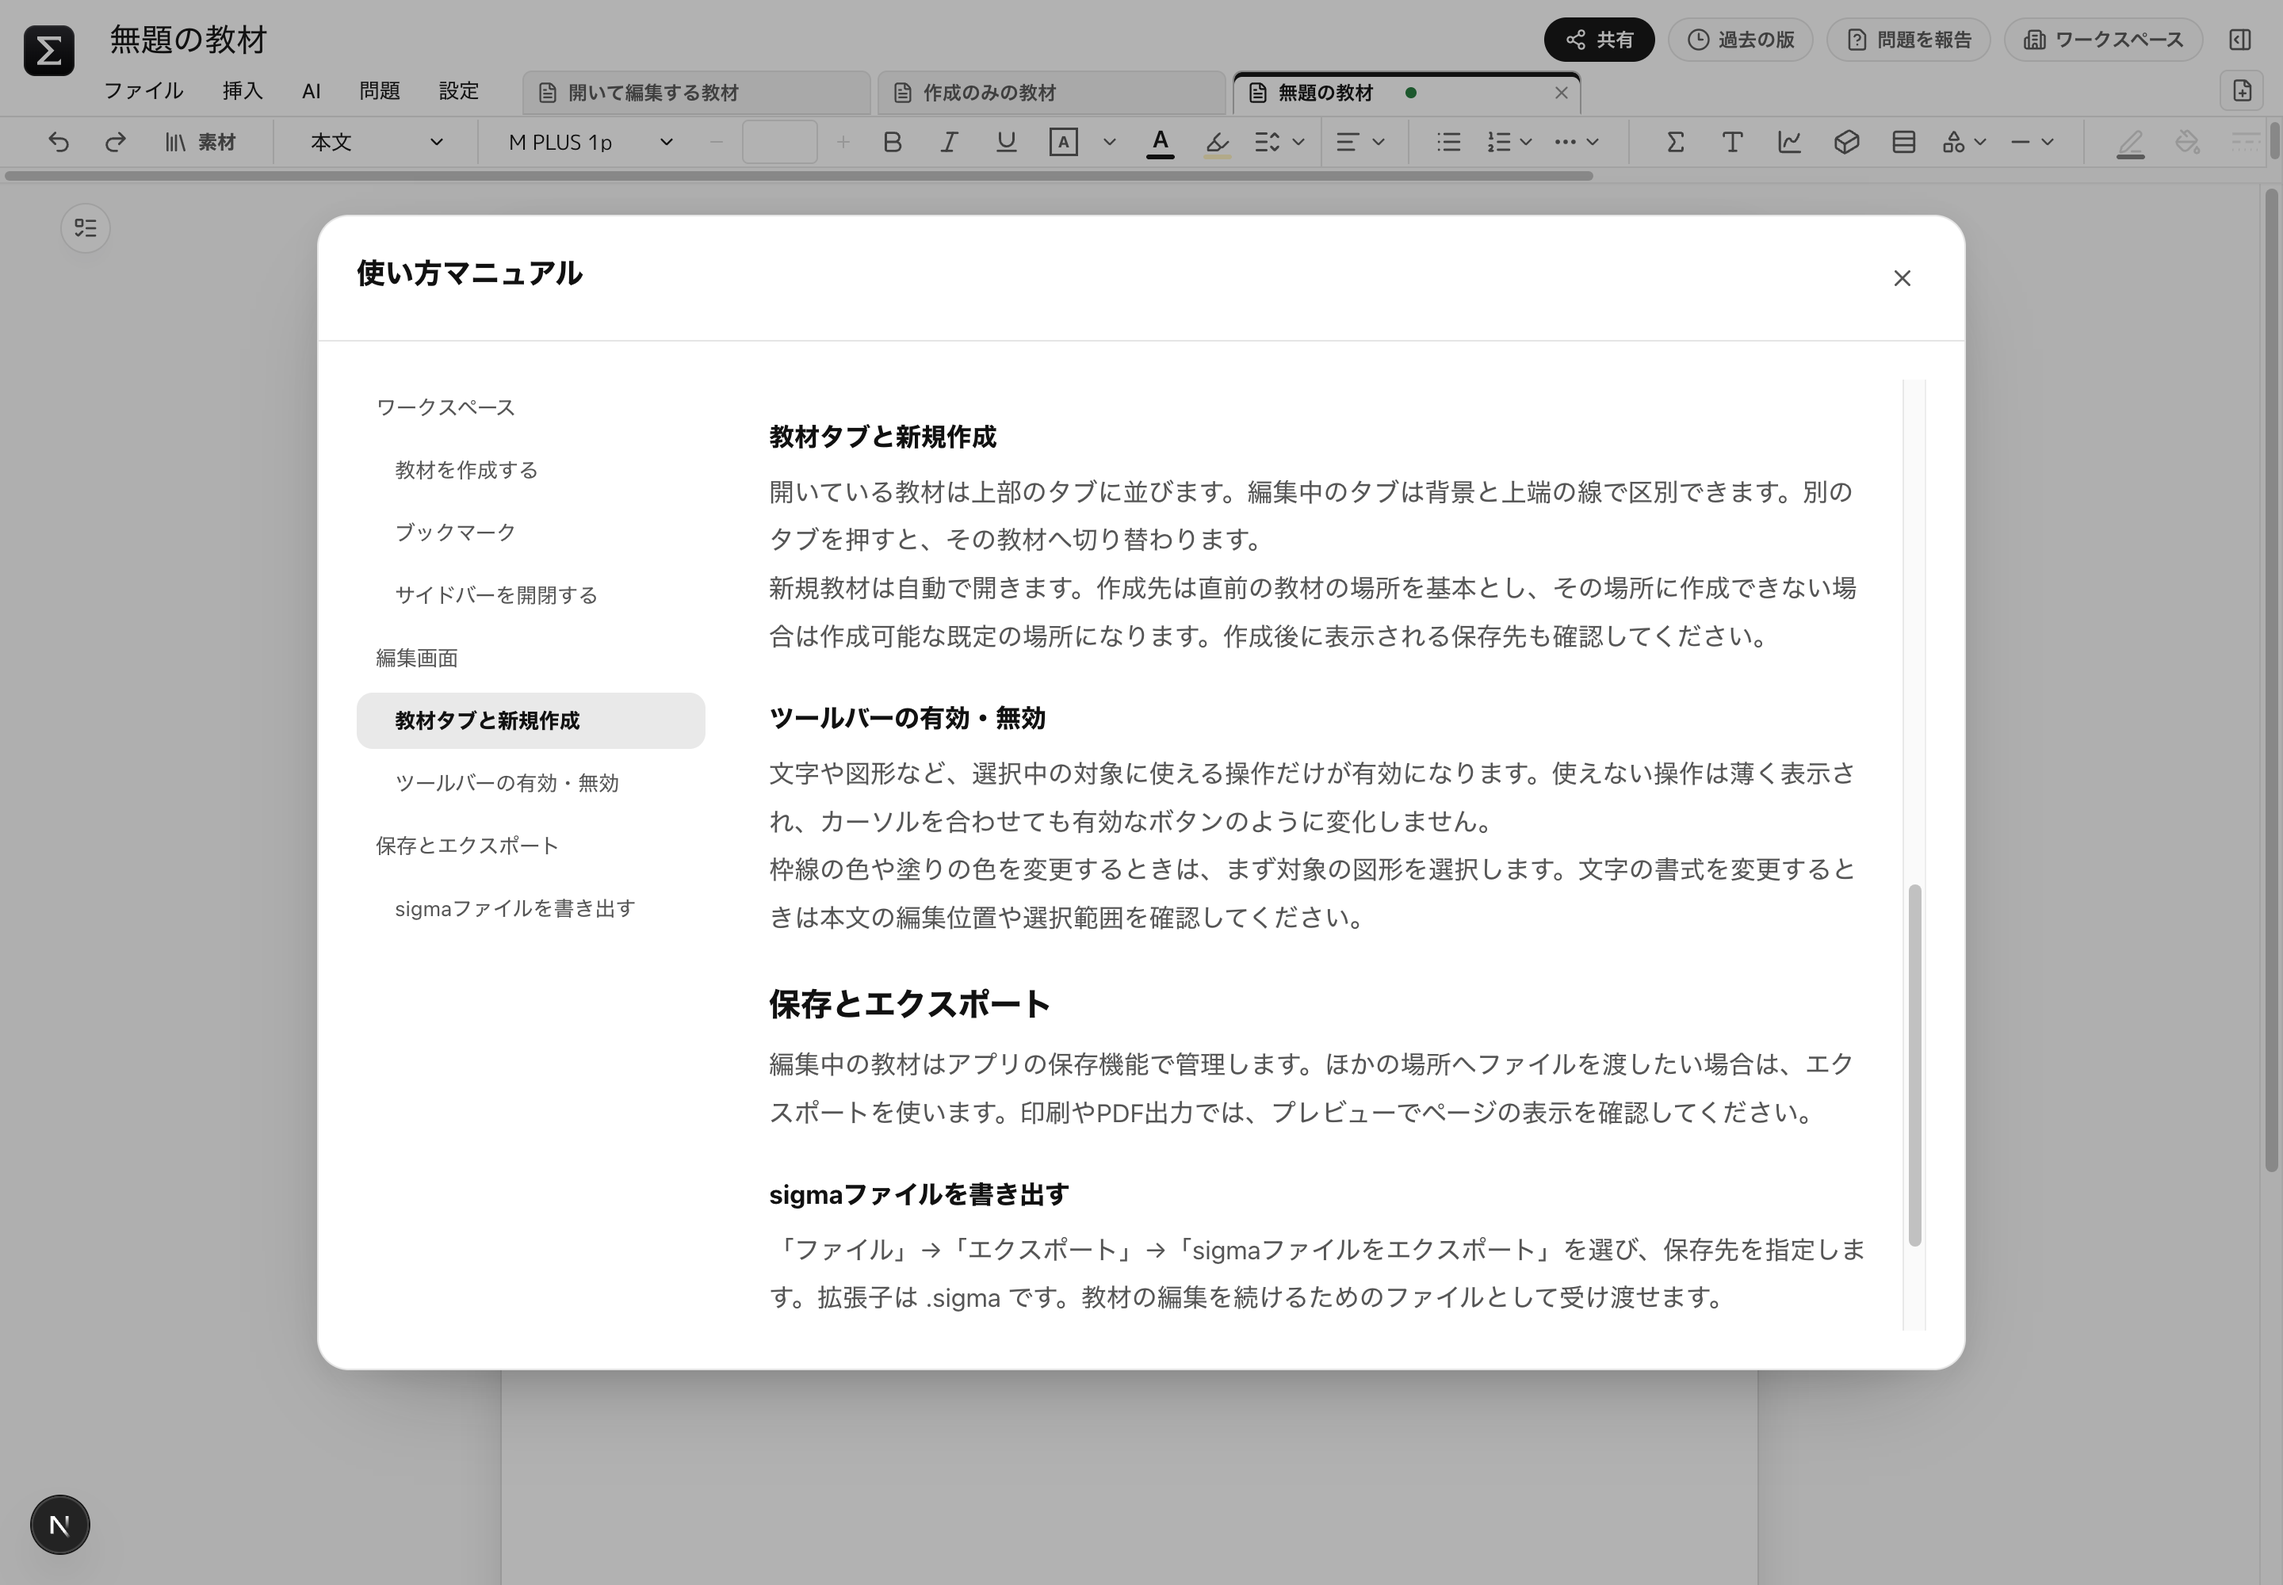
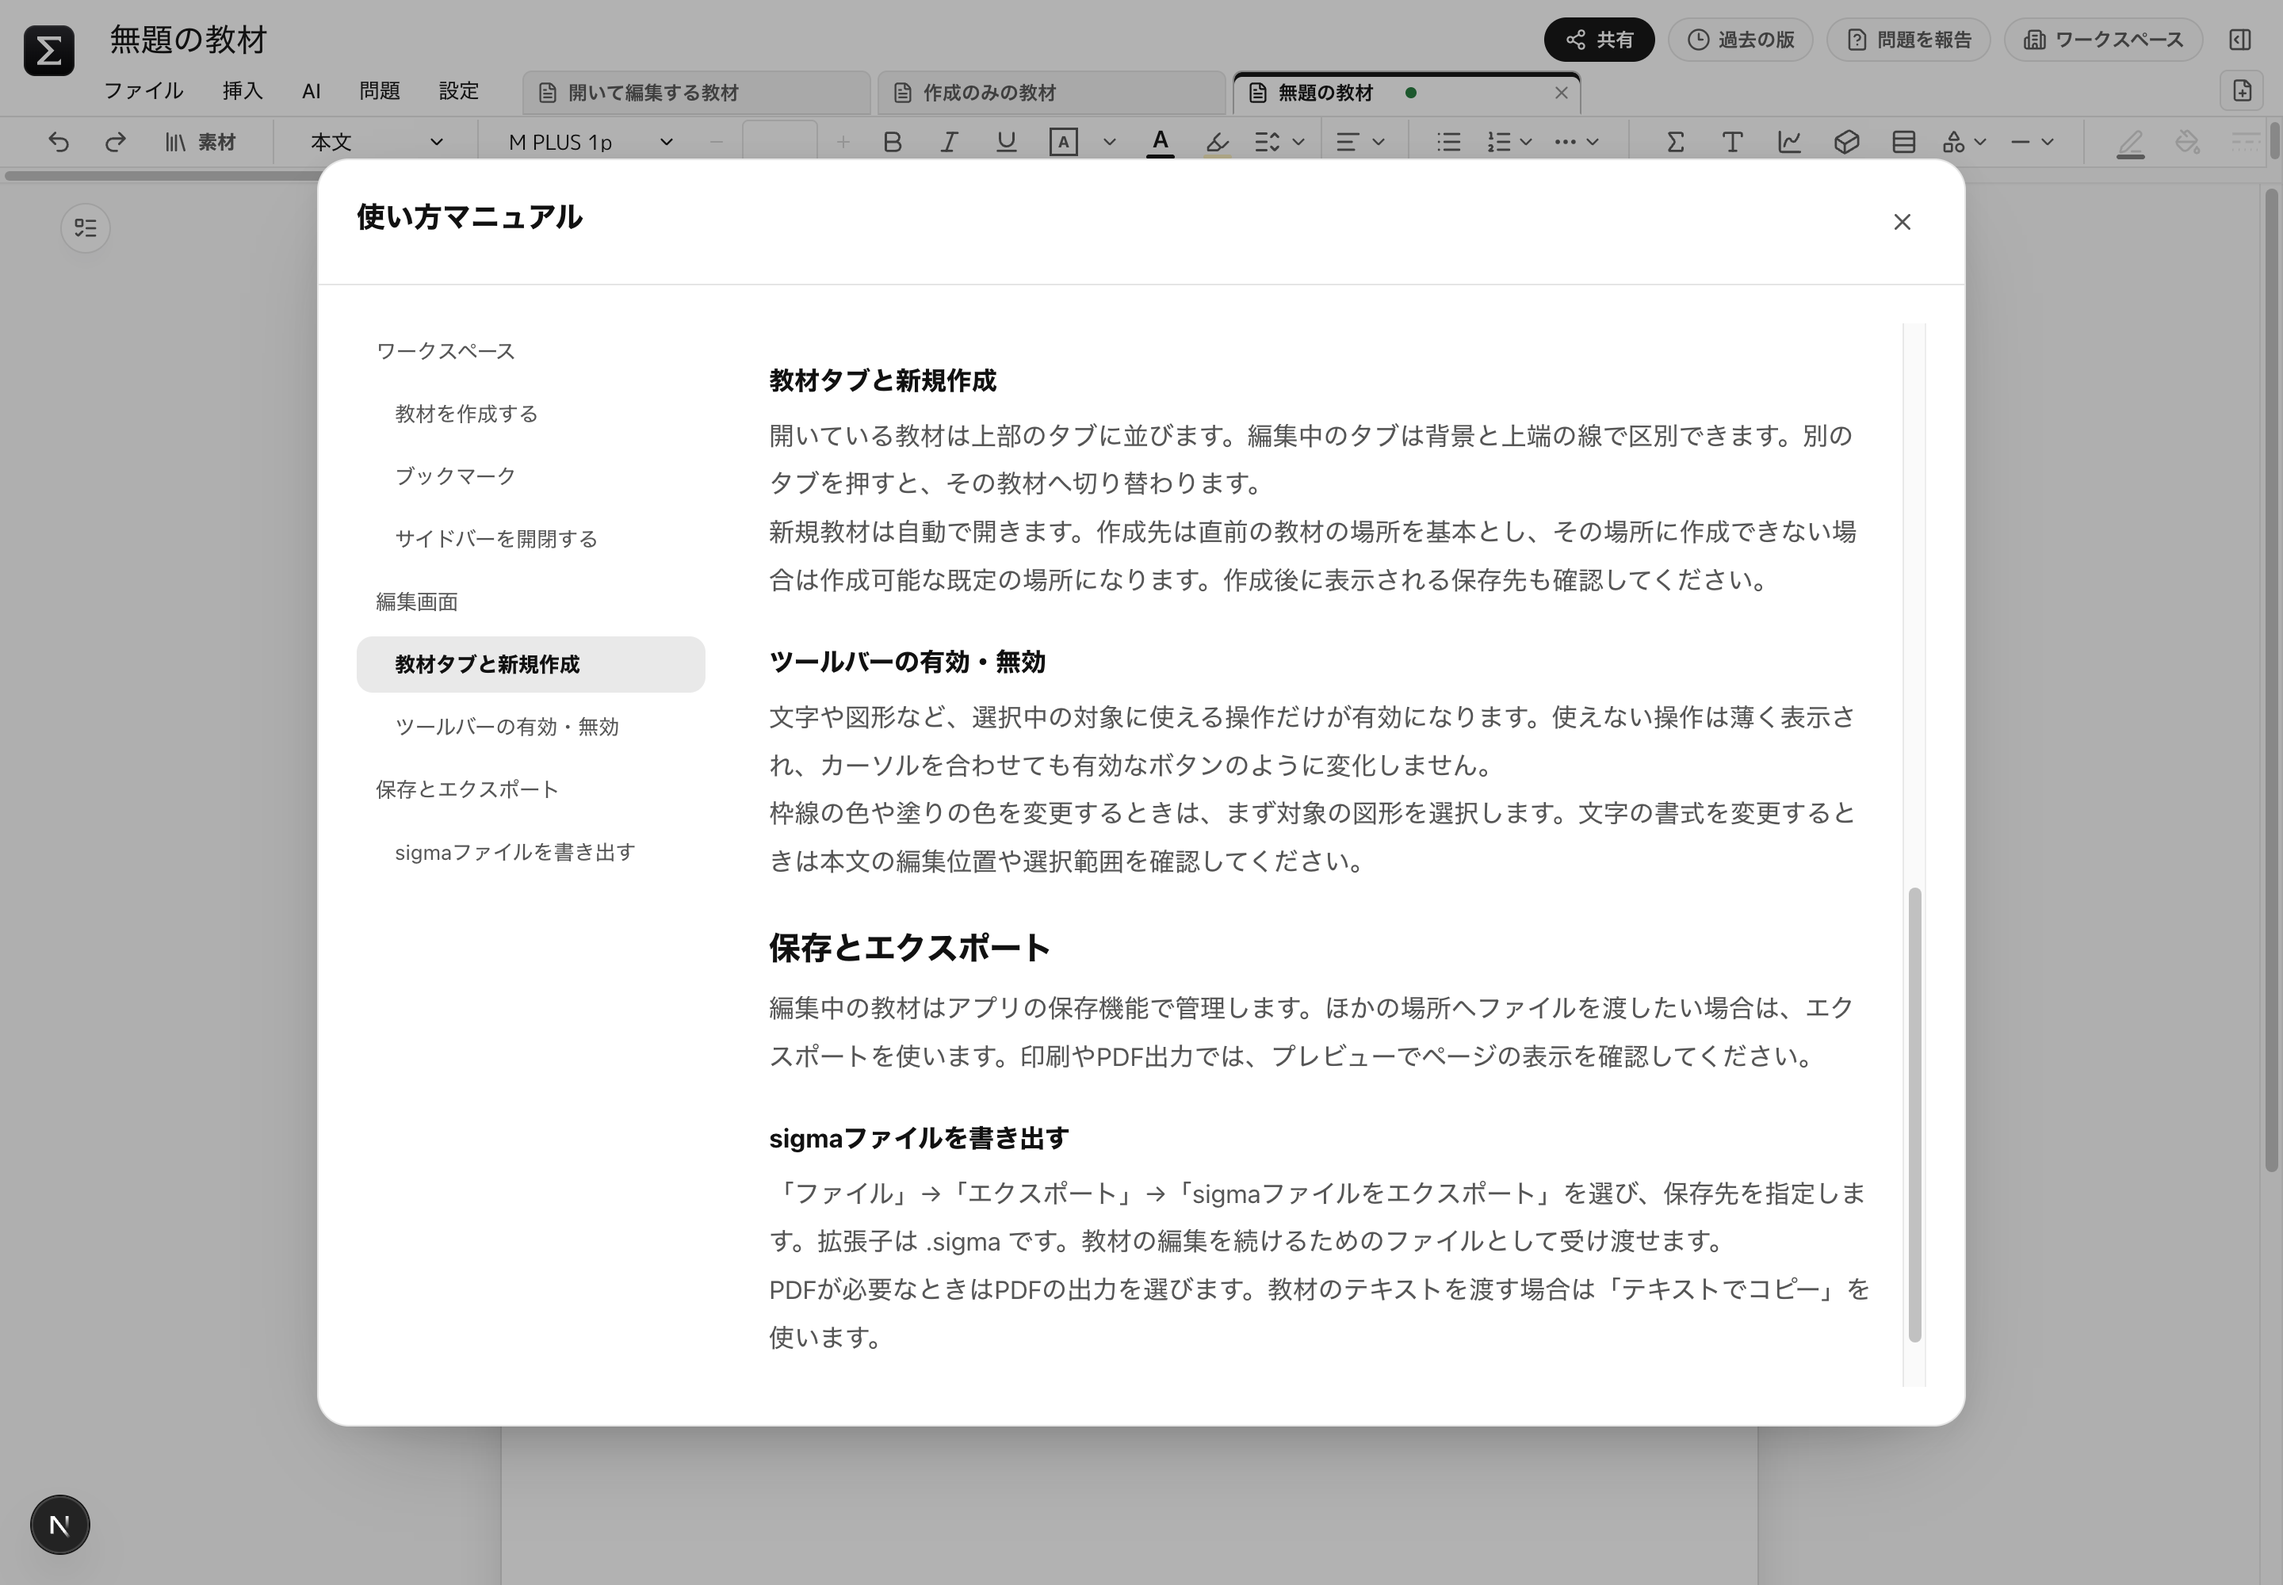
fix(ui): fit manual content inside bounded dialogs

diff --git a/apps/desktop/tests/electron/uiux-feedback.spec.ts b/apps/desktop/tests/electron/uiux-feedback.spec.ts
@@ -125,6 +125,21 @@ test("workspace and editor feedback flows persist through the real desktop bridg
     await expect(manual.locator('nav a[aria-current="location"]')).toHaveText("sigmaファイルを書き出す");
     await manual.locator("[data-manual-viewport]").evaluate(el => { el.scrollTop = 0; });
     await expect(manual.locator('nav a[aria-current="location"]')).toHaveText("ワークスペース");
+    // The dialog is capped by the shared modal. Its scroll region must fit on
+    // both tall and short windows so the last paragraph/link remain reachable.
+    for (const height of [1440, 650]) {
+      await app.evaluate(({ BrowserWindow }, windowHeight) => BrowserWindow.getAllWindows()[0].setContentSize(1440, windowHeight), height);
+      const viewport = manual.locator("[data-manual-viewport]");
+      await expect.poll(async () => {
+        const region = await viewport.boundingBox();
+        const surface = await manual.boundingBox();
+        return region!.y + region!.height <= surface!.y + surface!.height;
+      }).toBe(true);
+      await viewport.evaluate(el => { el.scrollTop = el.scrollHeight; });
+      await expect(manual.getByRole("link", { name: "画面つきの詳しいガイド（外部サイト）" })).toBeInViewport();
+      await expect(manual.locator('nav a[aria-current="location"]')).toHaveText("sigmaファイルを書き出す");
+    }
+    await app.evaluate(({ BrowserWindow }) => BrowserWindow.getAllWindows()[0].setContentSize(1440, 1000));
     await page.keyboard.press("Escape");
     // Verify both saved workspace-created documents survive reload through storage.
     const files = await page.evaluate(async () => window.desktopAPI!.storage.listFiles());

diff --git a/apps/desktop/src/components/community/UsageManual.module.css b/apps/desktop/src/components/community/UsageManual.module.css
@@ -1,11 +1,12 @@
-.body { min-height: 0; }
-.layout { display: grid; grid-template-columns: minmax(160px, 220px) minmax(0, 1fr); gap: var(--space-xl); min-height: 0; }
-.toc { max-height: 60vh; overflow: auto; }
+.surface { height: 80vh; }
+.body { display: flex; flex: 1; min-height: 0; }
+.layout { display: grid; flex: 1; grid-template-rows: minmax(0, 1fr); grid-template-columns: minmax(160px, 220px) minmax(0, 1fr); gap: var(--space-xl); min-height: 0; }
+.toc { min-height: 0; overflow: auto; }
 .toc a { display: block; padding: var(--space-sm) var(--space-md); border-radius: var(--radius-control); color: var(--text-secondary); text-decoration: none; font-size: 13px; }
 .toc a[data-level="3"] { padding-inline-start: var(--space-xl); }
 .toc a:hover, .toc a:focus-visible { background: var(--surface-muted); }
 .toc a[aria-current="location"] { background: var(--surface-strong); color: var(--text-primary); font-weight: 650; }
-.content { height: 60vh; overflow: auto; padding: var(--space-xl) var(--space-lg); scroll-padding-top: var(--space-xl); }
+.content { min-height: 0; overflow: auto; padding: var(--space-xl) var(--space-lg); scroll-padding-top: var(--space-xl); }
 .content h2, .content h3, .content p { margin: 0; }
 .content h2 { font-size: 20px; }
 .content h3 { font-size: 16px; }

diff --git a/tests/public-browser/editor-integration.spec.ts b/tests/public-browser/editor-integration.spec.ts
@@ -142,7 +142,7 @@ test("Viewer display settings preserve SigmaDoc; edits survive host save and rel
     await page.getByRole("button", { name: "エクスポート", exact: true }).click();
   }
   const downloadReady = page.waitForEvent("download");
-  await page.getByText("JSONをエクスポート", { exact: true }).click();
+  await page.getByText("sigmaファイルをエクスポート", { exact: true }).click();
   const download = await downloadReady;
   expect(download.suggestedFilename()).toBe(`${resavedTitle}.sigma`);
   expect(await download.failure()).toBeNull();

diff --git a/apps/desktop/src/components/community/UsageManual.tsx b/apps/desktop/src/components/community/UsageManual.tsx
@@ -63,7 +63,7 @@ function ManualContents({ onClose }: { onClose(): void }) {
   }, []);
 
   return (
-    <ModalFrame open onDismiss={onClose} size="xl">
+    <ModalFrame open onDismiss={onClose} size="xl" surfaceClassName={styles.surface}>
       <ModalHeader title={t("manual.title")} onClose={onClose} />
       <ModalBody scroll="hidden" className={styles.body}>
         <div className={styles.layout}>
